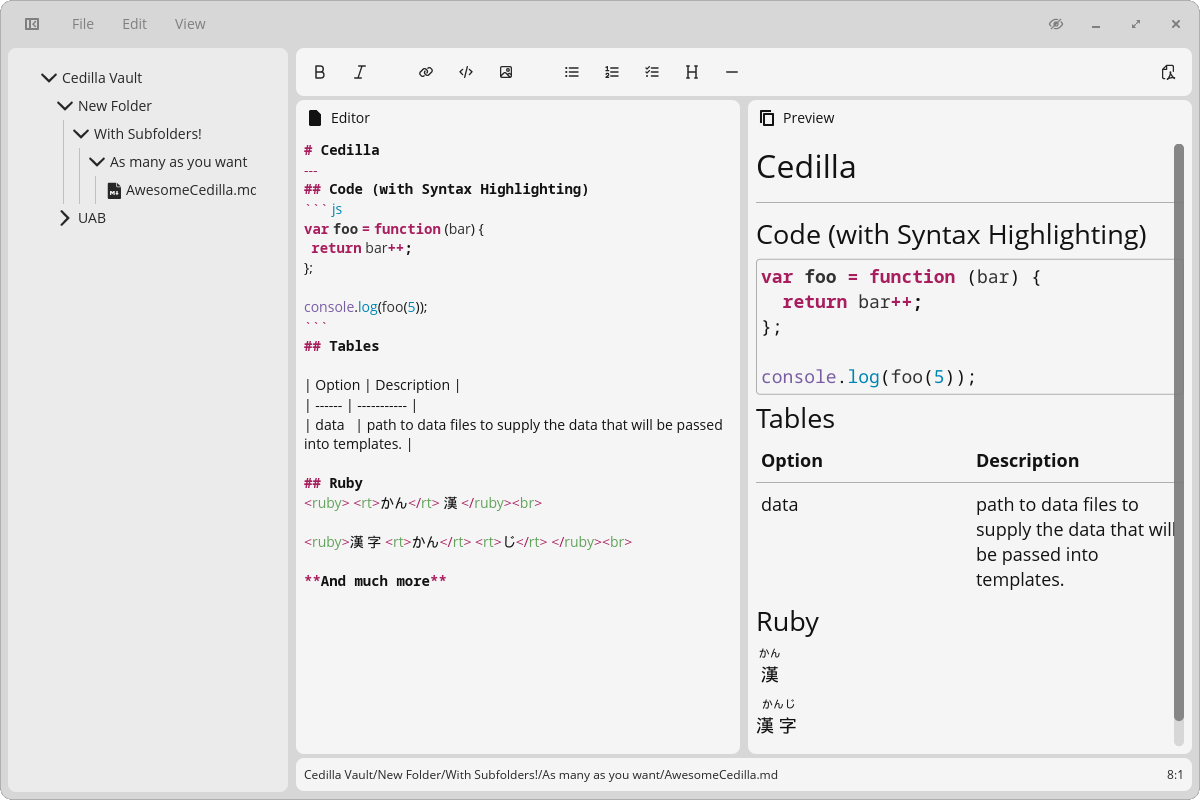
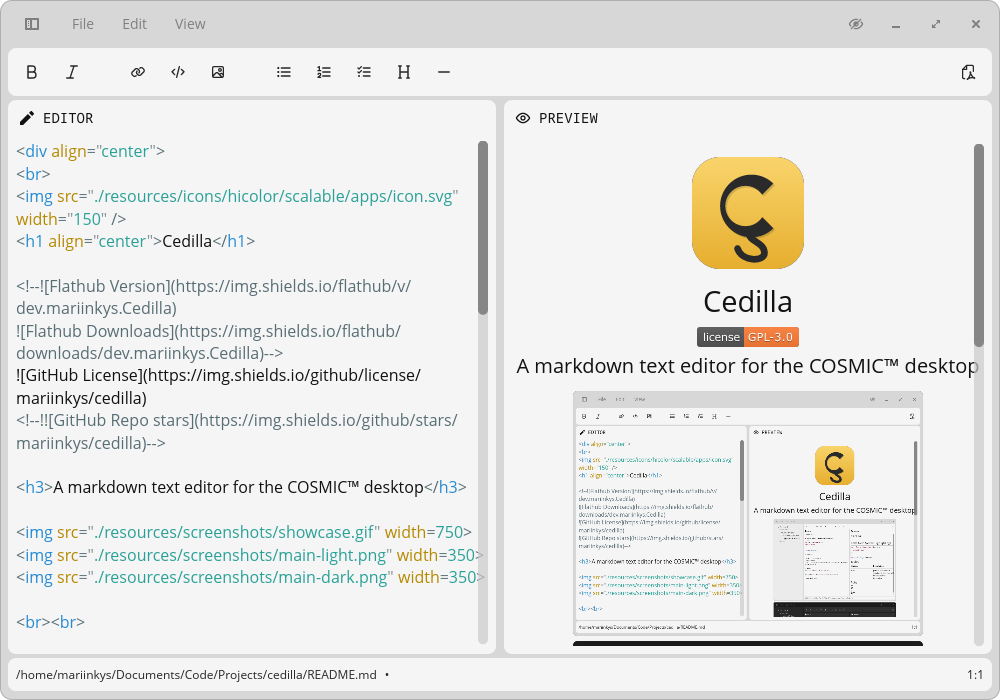
chore: add & update screenshots

diff --git a/src/main.rs b/src/main.rs
@@ -24,7 +24,7 @@ fn main() -> cosmic::iced::Result {
                 .min_height(420.0)
                 .min_width(650.0),
         )
-        .size(cosmic::iced::Size::new(1200.0, 800.0))
+        .size(cosmic::iced::Size::new(1000.0, 700.0))
         .is_daemon(false)
         .exit_on_close(false);
 

diff --git a/README.md b/README.md
@@ -21,11 +21,6 @@
  </a>-->
  </div>
 
-## Note
-
-This is a WIP project that will be released, eventually.
-
-
 ## Install
 
 To install your COSMIC application, you will need [just](https://github.com/casey/just), if you're on Pop!\_OS, you can install it with the following command:
